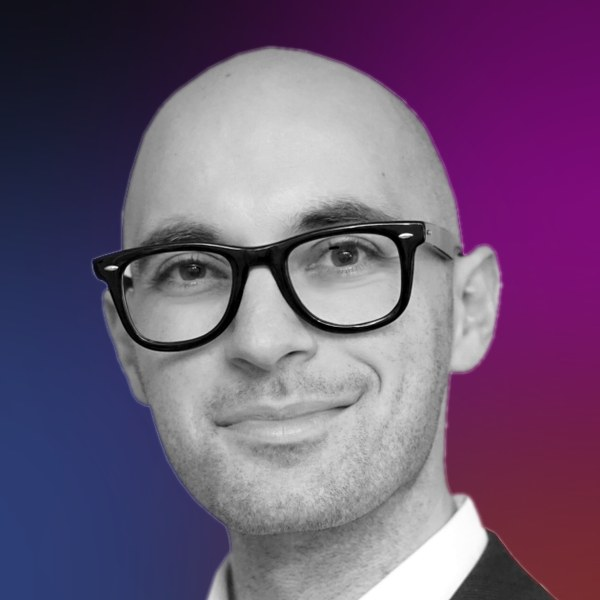
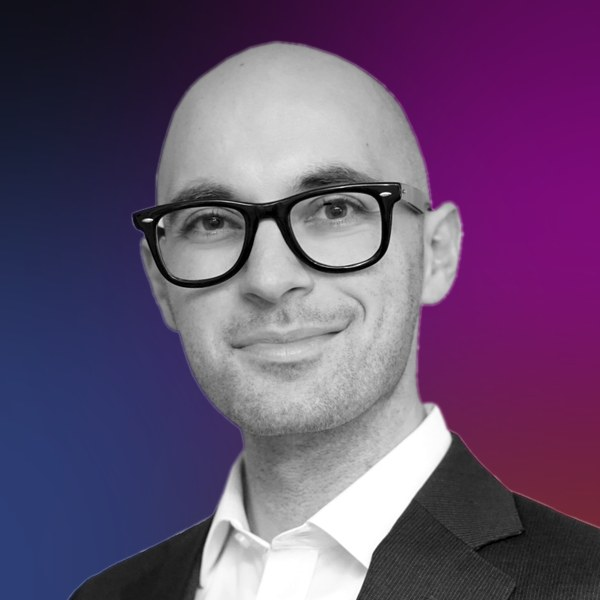
Widen profile photo crop and drop the hero kicker line
The portrait now shows head and shoulders instead of a tight face crop, and
the "Data & AI Advisory" line above the rotating headline is removed.

Claude-Session: https://claude.ai/code/session_017Eo6qGyzyWLtMM7N4G5mqM

diff --git a/assets/advisory/styles.css b/assets/advisory/styles.css
@@ -160,7 +160,6 @@ img { max-width: 100%; }
   background: linear-gradient(90deg, rgba(8, 8, 8, .55), transparent 65%), linear-gradient(0deg, rgba(8, 8, 8, .6), transparent 45%);
 }
 .stage__content { position: relative; z-index: 1; max-width: 1100px; }
-.stage__kicker { font-size: 32px; line-height: 40px; font-weight: 300; text-transform: uppercase; margin-bottom: 8px; }
 .stage__title { font-size: 72px; line-height: 80px; font-weight: 400; text-transform: uppercase; margin-bottom: 32px; min-height: 160px; letter-spacing: .02em; }
 .stage__lead { font-size: 20px; line-height: 29px; color: var(--white-82); max-width: 660px; margin-bottom: 40px; }
 .stage__ai { background: var(--gradient-text); -webkit-background-clip: text; background-clip: text; color: transparent; font-weight: 500; }
@@ -518,7 +517,6 @@ img { max-width: 100%; }
   .nav__links, .nav > .lang { display: none; }
   .nav__burger { display: block; }
   .t-section { font-size: 36px; line-height: 42px; }
-  .stage__kicker { font-size: 22px; line-height: 30px; }
   .stage__title { font-size: 44px; line-height: 52px; min-height: 104px; }
   .stage__lead { font-size: 18px; line-height: 27px; }
   .about { grid-template-columns: 1fr; gap: 56px; }
@@ -560,7 +558,6 @@ img { max-width: 100%; }
   .credentials { border-radius: 16px; padding-right: 14px; }
   .t-section { font-size: 30px; line-height: 36px; }
   .stage { padding-top: 120px; padding-bottom: 56px; min-height: 100vh; }
-  .stage__kicker { font-size: 16px; line-height: 24px; }
   .stage__title { font-size: 32px; line-height: 40px; min-height: 120px; margin-bottom: 24px; }
   .stage__lead { font-size: 16px; line-height: 24px; margin-bottom: 32px; }
   .cta { white-space: normal; text-align: center; }

diff --git a/layouts/index.html b/layouts/index.html
@@ -11,7 +11,6 @@
   <section class="stage" id="top">
     <div class="stage__bg" aria-hidden="true"></div>
     <div class="stage__content">
-      <p class="stage__kicker" data-i18n="hero.kicker">Data &amp; AI Advisory</p>
       <h1 class="stage__title" id="hero-title">
         <span class="stage__ai" data-i18n="hero.prefix" aria-hidden="true">AI</span>
         <span class="typer" id="hero-typer" aria-hidden="true"></span><span class="caret" aria-hidden="true"></span>

diff --git a/assets/advisory/script.js b/assets/advisory/script.js
@@ -26,7 +26,6 @@ const serviceIcons = [
 
 const i18n = {
   en: {
-    "hero.kicker": "Data & AI Advisory",
     "hero.prefix": "AI",
     "hero.typed": [
       "AI is only as good as its foundation",
@@ -71,7 +70,6 @@ const i18n = {
     ],
   },
   de: {
-    "hero.kicker": "Daten & KI Beratung",
     "hero.prefix": "KI",
     "hero.typed": [
       "KI ist nur so gut wie ihr Fundament",
